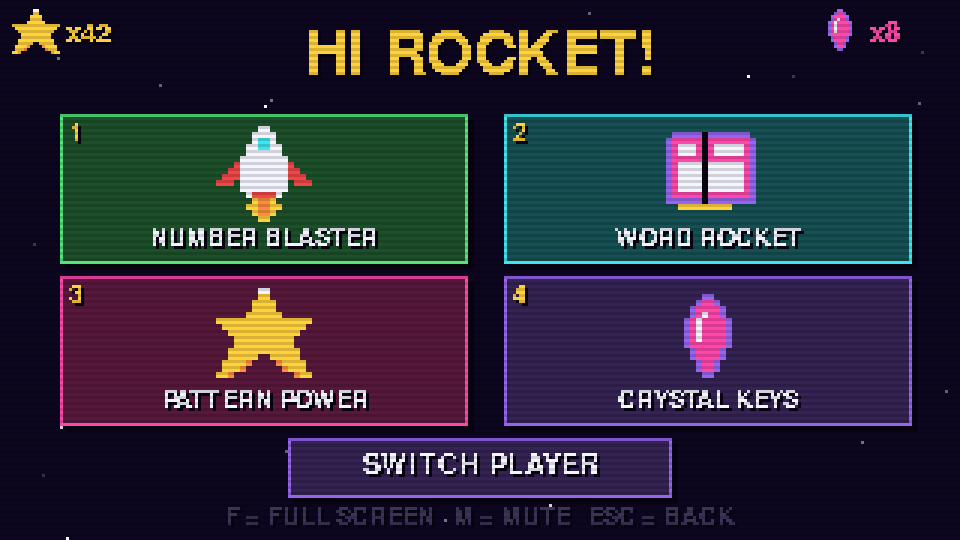
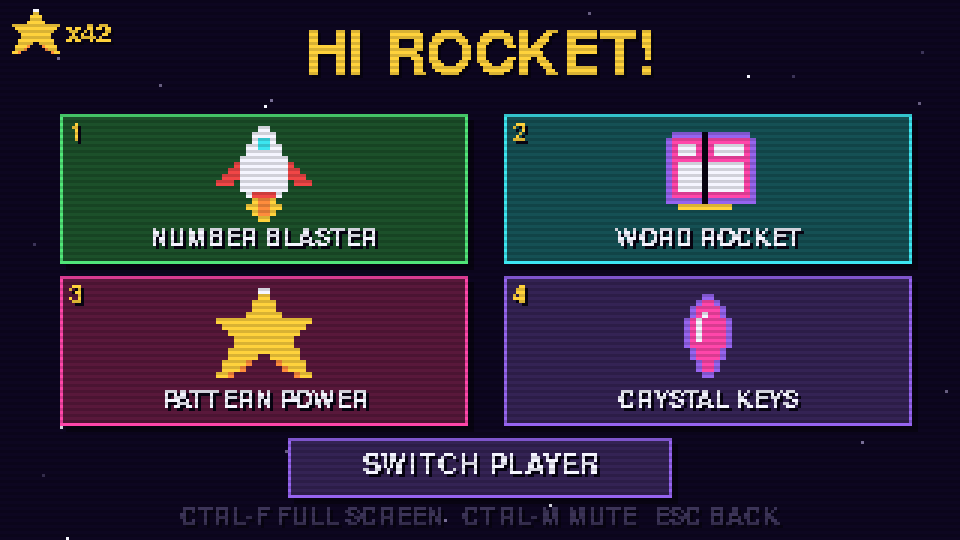
Fix: typing F toggled full screen instead of typing a letter
Reported from the Earth lesson, where the screen blanked and the letter
never registered. F was an app-wide shortcut for full screen, swallowed by
the event pump before any scene saw it -- and Earth needs F constantly:
asdf, fall, flash, flag, half. M had the same problem for mute (magma,
ember, climb, mist), and Word Rocket was affected too, since it accepts
the answer letter directly.

No app command is a bare key any more. Full screen, mute and quit all
require Ctrl or Cmd, so a plain letter always belongs to the game. Escape
stays as navigation. This removes the whole class of collision rather than
special-casing the scenes that happen to read letters today.

Tests drive real events through App._pump_events, which is the layer the
scene-level playthroughs bypassed entirely -- that blind spot is why this
shipped. They assert the full alphabet reaches the game untouched and that
no bare letter changes app state. Reverting the fix fails seven of them.

Claude-Session: https://claude.ai/code/session_0167gDpELpHY8HKE2djUE9NB

Changed region(s): [[0.1875, 0.9185, 0.8125, 0.9778], [0.8438, 0.0296, 0.9375, 0.0889]]

diff --git a/tests/test_input.py b/tests/test_input.py
@@ -1,0 +1,172 @@
+"""Checks on key handling in the app shell.
+
+The rule these enforce: no app command is a bare key. Every shortcut needs
+Cmd or Ctrl, so a plain letter always belongs to the game.
+
+They go through App._pump_events with real pygame events, because that is the
+layer where the conflict lived. The playthrough tests call scene.handle_event
+directly and sail straight past it -- which is how "F" came to toggle full
+screen instead of typing a letter in the Earth lesson, where asdf, fall,
+flash and half all need it.
+
+Run with:  python3 -m unittest discover tests
+"""
+
+import os
+import string
+import sys
+import unittest
+
+sys.path.insert(0, os.path.dirname(os.path.dirname(os.path.abspath(__file__))))
+
+os.environ.setdefault("SDL_VIDEODRIVER", "dummy")
+os.environ.setdefault("SDL_AUDIODRIVER", "dummy")
+
+import pygame  # noqa: E402
+
+from games import crystal_keys  # noqa: E402
+from retro import progress, sfx  # noqa: E402
+from retro.app import App, Scene  # noqa: E402
+
+
+class Recorder(Scene):
+    """A scene that just remembers which keys reached it."""
+
+    def __init__(self, app):
+        super().__init__(app)
+        self.seen = []
+
+    def handle_event(self, event):
+        if event.type == pygame.KEYDOWN:
+            self.seen.append(event.unicode)
+
+
+def press(app, key, unicode_char, mods=0):
+    pygame.event.clear()
+    pygame.event.post(
+        pygame.event.Event(
+            pygame.KEYDOWN, {"key": key, "unicode": unicode_char, "mod": mods}
+        )
+    )
+    pygame.key.set_mods(mods)
+    try:
+        app._pump_events()
+    finally:
+        pygame.key.set_mods(0)
+
+
+class TestNoBareKeyCommands(unittest.TestCase):
+    @classmethod
+    def setUpClass(cls):
+        cls.app = App()
+
+    def setUp(self):
+        self.app.scenes = []
+        self.app.fullscreen = False
+        self.scene = Recorder(self.app)
+        self.app.push(self.scene)
+        sfx.set_muted(False)
+
+    def test_every_letter_reaches_the_game_untouched(self):
+        """The whole alphabet, including the ones that used to be shortcuts."""
+        for letter in string.ascii_lowercase:
+            press(self.app, getattr(pygame, f"K_{letter}"), letter)
+        self.assertEqual("".join(self.scene.seen), string.ascii_lowercase)
+
+    def test_no_bare_letter_changes_app_state(self):
+        for letter in string.ascii_lowercase:
+            press(self.app, getattr(pygame, f"K_{letter}"), letter)
+            self.assertFalse(
+                self.app.fullscreen, f"bare {letter.upper()} toggled full screen"
+            )
+            self.assertFalse(sfx.is_muted(), f"bare {letter.upper()} toggled mute")
+            self.assertTrue(self.app.running or True)
+
+    def test_bare_f_types_rather_than_going_full_screen(self):
+        press(self.app, pygame.K_f, "f")
+        self.assertEqual(self.scene.seen, ["f"])
+        self.assertFalse(self.app.fullscreen)
+
+    def test_bare_m_types_rather_than_muting(self):
+        press(self.app, pygame.K_m, "m")
+        self.assertEqual(self.scene.seen, ["m"])
+        self.assertFalse(sfx.is_muted())
+
+
+class TestModifierShortcuts(unittest.TestCase):
+    @classmethod
+    def setUpClass(cls):
+        cls.app = App()
+
+    def setUp(self):
+        self.app.scenes = []
+        self.app.fullscreen = False
+        self.scene = Recorder(self.app)
+        self.app.push(self.scene)
+        sfx.set_muted(False)
+
+    def test_command_and_control_f_toggle_full_screen(self):
+        for mods in (pygame.KMOD_LMETA, pygame.KMOD_LCTRL):
+            press(self.app, pygame.K_f, "f", mods=mods)
+            self.assertTrue(self.app.fullscreen, f"mods={mods} did not go full screen")
+            press(self.app, pygame.K_f, "f", mods=mods)
+            self.assertFalse(self.app.fullscreen, f"mods={mods} did not come back")
+
+    def test_command_and_control_m_toggle_mute(self):
+        for mods in (pygame.KMOD_LMETA, pygame.KMOD_LCTRL):
+            press(self.app, pygame.K_m, "m", mods=mods)
+            self.assertTrue(sfx.is_muted(), f"mods={mods} did not mute")
+            press(self.app, pygame.K_m, "m", mods=mods)
+            self.assertFalse(sfx.is_muted(), f"mods={mods} did not unmute")
+
+    def test_shortcuts_do_not_leak_into_the_scene(self):
+        press(self.app, pygame.K_f, "f", mods=pygame.KMOD_LMETA)
+        press(self.app, pygame.K_m, "m", mods=pygame.KMOD_LCTRL)
+        self.assertEqual(self.scene.seen, [])
+
+    def test_command_q_quits(self):
+        self.app.running = True
+        press(self.app, pygame.K_q, "q", mods=pygame.KMOD_LMETA)
+        self.assertFalse(self.app.running)
+
+    def test_bare_q_does_not_quit(self):
+        self.app.running = True
+        press(self.app, pygame.K_q, "q")
+        self.assertTrue(self.app.running, "bare Q quit the game")
+        self.assertEqual(self.scene.seen, ["q"])
+
+    def test_escape_reaches_the_scene(self):
+        """Escape is navigation, not a command, so scenes handle it."""
+        press(self.app, pygame.K_ESCAPE, "")
+        self.assertEqual(self.scene.seen, [""])
+
+
+class TestTypingActuallyAdvances(unittest.TestCase):
+    """End to end: F typed in the Earth lesson must count as a letter."""
+
+    @classmethod
+    def setUpClass(cls):
+        cls.app = App()
+
+    def test_f_advances_an_earth_prompt(self):
+        os.environ["RETRO_ARCADE_SAVE_DIR"] = "/tmp/retro-input-test"
+        try:
+            player = progress.Player("Rocket")
+            scene = crystal_keys.TypingRoundScene(self.app, player, "earth")
+            scene.prompts = ["fall"] * crystal_keys.ROUND_LENGTH
+            self.app.scenes = []
+            self.app.fullscreen = False
+            self.app.push(scene)
+            self.assertEqual(scene.next_key, "f")
+            press(self.app, pygame.K_f, "f")
+            self.assertEqual(scene.typed, 1, "typing F did not advance the word")
+            self.assertFalse(self.app.fullscreen)
+            for letter in "all":
+                press(self.app, getattr(pygame, f"K_{letter}"), letter)
+            self.assertEqual(scene.state, "celebrating", "the word never completed")
+        finally:
+            del os.environ["RETRO_ARCADE_SAVE_DIR"]
+
+
+if __name__ == "__main__":
+    unittest.main()

diff --git a/retro/app.py b/retro/app.py
@@ -135,17 +135,22 @@ class App:
             if event.type == pygame.VIDEORESIZE and not self.fullscreen:
                 self.window_size = (event.w, event.h)
             if event.type == pygame.KEYDOWN:
-                mods = pygame.key.get_mods()
-                if event.key == pygame.K_q and mods & pygame.KMOD_META:
-                    self.quit()
-                    return
-                if event.key == pygame.K_f and not mods & pygame.KMOD_META:
-                    self.toggle_fullscreen()
-                    continue
-                if event.key == pygame.K_m:
-                    sfx.set_muted(not sfx.is_muted())
-                    sfx.play("click")
-                    continue
+                # Every app shortcut needs a modifier. A bare letter is always
+                # the game's to handle: the typing tutor needs F and M to be
+                # letters, and any plain-letter shortcut would eventually
+                # collide with something a child is trying to type.
+                command = pygame.key.get_mods() & (pygame.KMOD_META | pygame.KMOD_CTRL)
+                if command:
+                    if event.key == pygame.K_q:
+                        self.quit()
+                        return
+                    if event.key == pygame.K_f:
+                        self.toggle_fullscreen()
+                        continue
+                    if event.key == pygame.K_m:
+                        sfx.set_muted(not sfx.is_muted())
+                        sfx.play("click")
+                        continue
             if event.type in (
                 pygame.MOUSEBUTTONDOWN,
                 pygame.MOUSEBUTTONUP,

diff --git a/launcher.py b/launcher.py
@@ -193,7 +193,7 @@ class ArcadeScene(Scene):
         # hovered game explains itself down here instead.
         ui.text(
             surface,
-            hovered or "F = FULL SCREEN   M = MUTE   ESC = BACK",
+            hovered or "CTRL-F FULL SCREEN   CTRL-M MUTE   ESC BACK",
             (160, 168),
             palette.GRAY if hovered else palette.DARK_GRAY,
             12,

diff --git a/README.md b/README.md
@@ -196,7 +196,7 @@ score sounds bigger than a small one.
 
 Failure is deliberately gentle. The wrong-answer tone is a low triangle wave,
 quieter than the success sounds, because a harsh buzzer teaches a child to
-fear being wrong. `M` mutes everything.
+fear being wrong. `Ctrl-M` mutes everything.
 
 ### Keys
 
@@ -204,11 +204,20 @@ fear being wrong. `M` mutes everything.
 | --- | --- |
 | `1` `2` `3` | Pick an answer |
 | Mouse click | Pick an answer |
-| Letter keys | Type, in Crystal Keys |
-| `F` | Full screen on/off |
-| `M` | Mute/unmute |
+| Letter keys | Type, in Crystal Keys and Word Rocket |
 | `Esc` | Back one screen |
-| `Cmd-Q` | Quit |
+| `Ctrl-F` / `Cmd-F` | Full screen on/off |
+| `Ctrl-M` / `Cmd-M` | Mute/unmute |
+| `Ctrl-Q` / `Cmd-Q` | Quit |
+
+**No command is a bare key.** Every shortcut needs Ctrl or Cmd, so a plain
+letter always belongs to the game — otherwise typing `f` in the Earth lesson
+would toggle full screen instead of typing a letter, which is exactly the bug
+that prompted the rule. `Esc` is the one exception, and it means "go back",
+never a command.
+
+On macOS, `Cmd-M` is the system shortcut for minimising a window and may be
+swallowed before the game sees it. `Ctrl-M` always works.
 
 ## Making it your own
 
